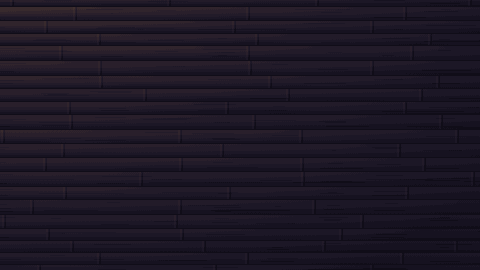
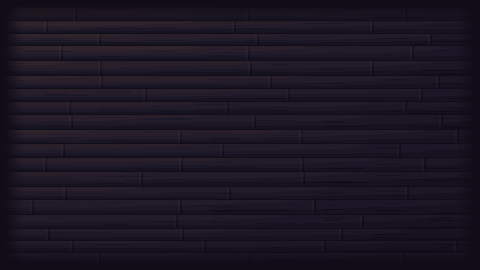
Let the menu backgrounds sink into the colour outside the game
On screens the game does not fill, the pictures showed as a rectangle.
Their edges now fade to #100D18, the colour of the page around them.

diff --git a/src/style.css b/src/style.css
@@ -1,4 +1,4 @@
-/* Letterbox colour = palette "Background deep" (GDD §8). A patterned border comes later. */
-html, body { margin: 0; padding: 0; height: 100%; background: #1E1A2B; overflow: hidden; }
+/* Outside the game: the menu backgrounds sink into this colour (GDD §8, tools/art/menubg.cjs). */
+html, body { margin: 0; padding: 0; height: 100%; background: #100D18; overflow: hidden; }
 #game-container { width: 100vw; height: 100vh; height: 100dvh; display: flex; align-items: center; justify-content: center; }
 canvas { display: block; touch-action: none; image-rendering: pixelated; }

diff --git a/src/main.ts b/src/main.ts
@@ -27,7 +27,8 @@ const config: Phaser.Types.Core.GameConfig = {
   parent: CONTAINER_ID,
   width: BASE_WIDTH,
   height: BASE_HEIGHT,
-  backgroundColor: '#1E1A2B',
+  // The colour outside the game (style.css), so no frame shows while it loads.
+  backgroundColor: '#100D18',
   pixelArt: true,
   roundPixels: true,
   // Gamepad support (GDD §3.8.1): see src/input/gamepad.ts.

diff --git a/CLAUDE.md b/CLAUDE.md
@@ -75,7 +75,7 @@
   | Wood mid | `#8B5A2B` | | Text cream | `#F3E9D2` |
   | Wood light | `#C08A4E` | | P1 (ล่าง) ▲ | `#3FA7B5` |
   | Pit shadow | `#3A2416` | | P2 (บน) ● | `#E07A3A` |
-  | Dead pit | `#8C2F39` | | | |
+  | Dead pit | `#8C2F39` | | นอกเกม (ขอบพื้นหลังเมนูมืดลงเป็นสีนี้) | `#100D18` |
 
 - **ขนาด sprite**
 
@@ -181,7 +181,7 @@
 
 ## สถานะปัจจุบัน
 - มี GDD v0.2 และ acceptance criteria แล้ว
-- Scaffold Phaser 4 เสร็จแล้ว `npm run verify` ผ่าน (unit 249, playtest 445, touch 25)
+- Scaffold Phaser 4 เสร็จแล้ว `npm run verify` ผ่าน (unit 249, playtest 446, touch 25)
   - **verify ไม่นิ่งเป็นบางรอบ น่าจะเพราะ RAM เครื่องไม่พอ** (2026-11-25 ตอนเหลือราว 450 MB Chrome ฟ้อง `ERR_INSUFFICIENT_RESOURCES` พร้อม context lost และหน้าโหลดไม่ขึ้น พอเหลือราว 1 GB ผ่านหมด แต่ยังมี warning context lost บ้าง) **ก่อนรัน verify ให้ปิดโปรแกรมที่กิน RAM และ dev server ที่ไม่ใช้:** เคยเจอ warning "WebGL context lost", หน้าค้างราว 0.5 วินาทีจน playtest จอยพลาดปุ่ม 3 ข้อ และ harness จบด้วย exit 2 หนึ่งครั้ง ดูได้จากเช็ก "within 100ms" ที่ใช้เวลาหลายร้อย ms ให้รันซ้ำก่อนสรุปว่าเป็นบั๊ก **`ERR_ABORTED` ของ `ai.worker`** เจอ 1 ครั้ง (2026-11-25) ทำซ้ำได้เฉพาะเมื่อโหลดหน้าใหม่ภายในราว 60 ms หลังเริ่มเกมกับ AI ส่วนการปิด worker ตอนกำลังโหลดไม่ทำให้เกิด (วัดแล้ว 2026-11-24 ว่ากระดานใหม่ไม่ได้ทำให้เฟรมช้าลง)
 - **M0 rules engine เสร็จแล้ว** (`src/logic/`) ผ่าน F1–F16, AC-R1–R19 และ fuzz test (เกมสั้นและเกมเต็มที่สุ่มเล่นจบทุกเกม)
 - **GameScene เล่นได้ครบด้วยกราฟิกชั่วคราว** (วงกลม + ตัวเลข)

diff --git a/docs/GDD.md b/docs/GDD.md
@@ -482,6 +482,7 @@ ROUND_END
 | Role | Hex | Usage |
 |---|---|---|
 | Background deep | `#1E1A2B` | โทนหลักของพื้นหลังเมนู (Title กับเมนูหลักเป็นลานบ้านยามค่ำ หน้าอื่นเป็นแคร่ไม้ไผ่ยามค่ำ เจ้าของเลือก 2026-11-25) ในเกมเป็นแคร่ไม้ไผ่ |
+| Outside | `#100D18` | นอกพื้นที่เกม ขอบของพื้นหลังเมนูค่อย ๆ มืดลงเป็นสีนี้ จึงไม่เห็นเป็นกรอบ |
 | Wood dark | `#5A3A22` | ขอบกระดานและเงา |
 | Wood mid | `#8B5A2B` | ผิวกระดาน |
 | Wood light | `#C08A4E` | ไฮไลต์บนไม้และขอบหลุม |
